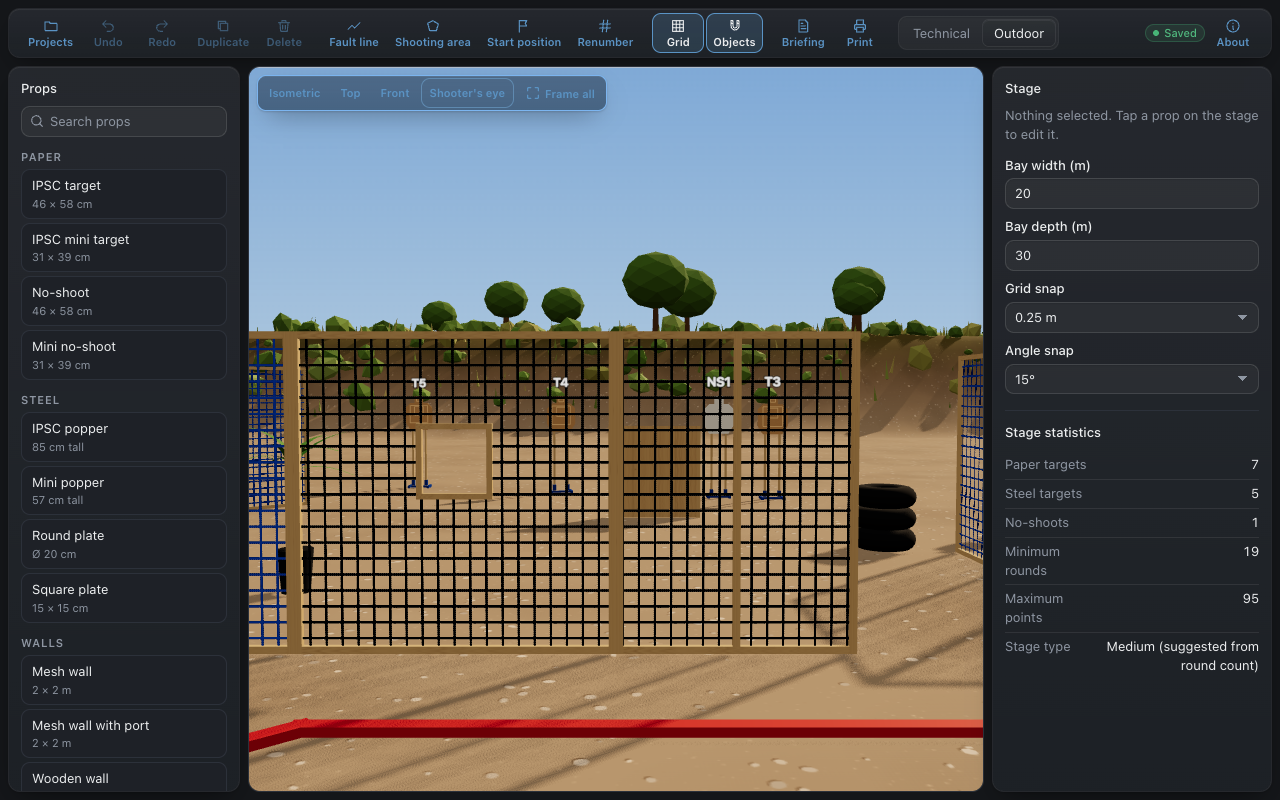
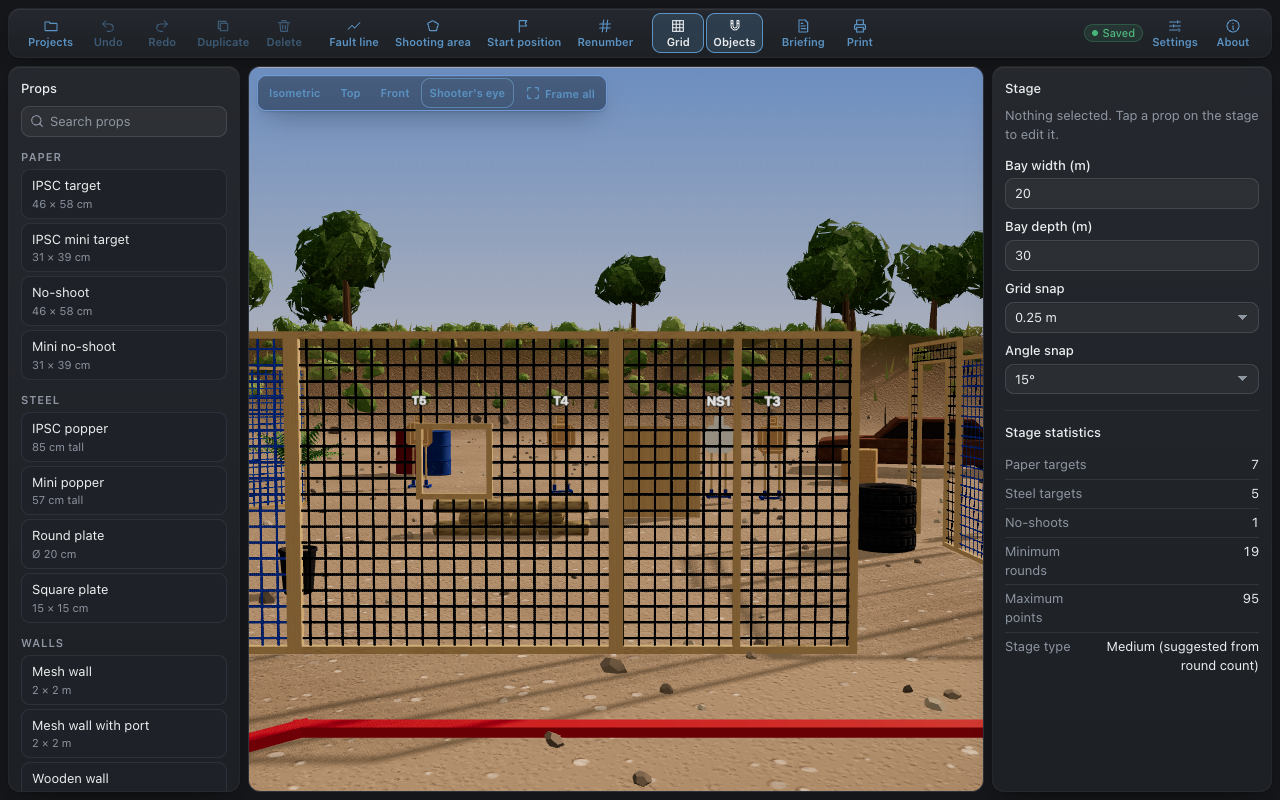
docs: environment settings, new props and detail

diff --git a/README.md b/README.md
@@ -20,7 +20,10 @@ training, and want a clear briefing sheet without drawing the map by hand.
   - steel: IPSC popper, mini popper, round plate, square plate
   - walls: mesh wall and mesh wall with port (black or blue 10 cm wire mesh, pine or black frame),
     wooden wall, wooden wall with port; ports are real openings
-  - obstacles: barrel, tyre, tyre stack, wooden crate, potted plant (decoration)
+  - mesh doorway (a wall with a door opening; it snaps like the other walls)
+  - structures: ramp, platform
+  - obstacles and range furniture: worn steel barrel (black, blue, red, green), tyre, tyre stack,
+    board crate, potted plant, car, table, chair, pallets, sandbag wall, traffic cone
   - fault lines, shooting areas and the start position
 - **Editing by eye:** tap or drag props in, drag them on the ground, rotate them, all with grid and
   angle snapping; multi-select, duplicate, delete, undo and redo.
@@ -33,8 +36,10 @@ training, and want a clear briefing sheet without drawing the map by hand.
   points are counted from the stage.
 - **Printable brief** (A4): briefing and a top-down map with a scale bar on page 1, a 3D view on
   page 2. Save it as a PDF from the print dialog.
-- **Two surroundings,** Outdoor (a dirt range at golden hour with earth banks, bushes and trees,
-  long soft shadows) and Technical (grey floor, grid). Switching never moves anything on the stage.
+- **Two surroundings,** Outdoor (a dirt range with earth banks, bushes and trees, gravel and stones)
+  and Technical (grey floor, grid). Switching never moves anything on the stage.
+- **Environment settings:** time of day (the sun moves and warms toward evening), sunlight,
+  ambient light, shadows and their softness, haze and exposure, saved with the stage.
 - **Cameras:** orbit, pan, zoom, Top, Isometric, Front and a shooter's-eye view from the start position.
 - **Projects** saved in the browser automatically, with JSON export and import.
 - **Works offline** and can be installed as an app (PWA).
@@ -50,6 +55,13 @@ not supported: below 768 px wide the app asks you to use a larger screen. Englis
 ## What's new
 
 ### Unreleased
+
+- Environment settings (toolbar *Settings*): surroundings, time of day, sunlight, ambient light,
+  shadows, shadow softness, haze and exposure.
+- New props: ramp, platform, car, table, chair, pallets, sandbag wall, traffic cone and a mesh
+  doorway; barrels come in four colours.
+- More detail: worn steel drums, treaded tyres, board crates, detailed palms and trees, a gravel
+  ground with stones; IPSC targets in the rulebook proportions, standing lower on shorter sticks.
 
 - Walls snap end to end to nearby walls; Grid and Objects snapping toggles in the toolbar.
 - Hold Shift while dragging for slow, fine moves.
@@ -88,6 +100,10 @@ not supported: below 768 px wide the app asks you to use a larger screen. Englis
   </tr>
   <tr>
     <td><img src="docs/screenshots/projects.png" alt="The Projects dialog" width="400"><br>Projects saved in this browser, with export hints</td>
+    <td><img src="docs/screenshots/settings.png" alt="The environment settings dialog" width="400"><br>Environment settings: surroundings, time of day, light, shadows, haze</td>
+  </tr>
+  <tr>
+    <td><img src="docs/screenshots/evening.png" alt="The stage at 19:30" width="400"><br>The same stage at 19:30: a low, warm sun and long shadows</td>
     <td></td>
   </tr>
 </table>
@@ -118,13 +134,19 @@ Stage settings are in the inspector when nothing is selected. They are saved wit
 | Grid snap | Positions snap to this grid: off, 0.1, 0.25, 0.5 or 1 m (toolbar *Grid* turns it on/off) | 0.25 m |
 | Object snap | Toolbar *Objects*: a wall's end jumps onto another wall's end within 35 cm | On |
 | Angle snap | Rotations snap to this step: off, 5°, 15°, 45° or 90° | 15° |
-| Surroundings | Outdoor (dirt range, sun) or Technical (grey floor, grid); never moves the stage | Outdoor |
+| Surroundings | *Settings*: Outdoor (dirt range) or Technical (grey floor, grid); never moves the stage | Outdoor |
+| Time of day | *Settings*: 06:00–20:00; the sun's height, direction and colour follow it | 17:30 |
+| Sunlight, Ambient light | *Settings*: 0–200 % | 100 % |
+| Shadows, Shadow softness | *Settings*: on/off, 0 (sharp) – 8 | On, 3 |
+| Haze | *Settings*: 0 (clear) – 100 % | 35 % |
+| Exposure | *Settings*: 0.5–1.6 | 1.05 |
 
 Prop settings (inspector, one prop selected): label (targets), rotation, and per prop: mount height
-for paper targets (0.1–2 m, default 1 m to the target's bottom), base height for steel, plate size
+for paper targets (0.1–2 m, default 0.7 m to the target's bottom), base height for steel, plate size
 (15–30 cm), wall length (0.5–4 m) and height (0.5–2.5 m), mesh colour (black/blue), frame
-(wood/black), port width, height and bottom edge, paint for poppers and plates (white/yellow),
-tyres in a stack (1–6), crate size.
+(wood/black), port width, height and bottom edge, door width and height, paint for poppers and
+plates (white/yellow), barrel and car colour, ramp and platform length, width and height, table
+length, pallets in a stack (1–6), sandbag wall length and rows, tyres in a stack (1–6), crate size.
 
 Scoring follows the IPSC Combined Competition Rules, January 2024 edition (Handgun): 2 hits per
 paper target and 1 per steel target (Comstock), 5 points per A-zone or steel hit, and Short ≤ 12,
@@ -153,7 +175,12 @@ it in the inspector; Renumber keeps hand-set labels and warns about duplicates.
 
 **Look at the stage.** Drag the empty ground to orbit, right-drag (two fingers on an iPad) to pan,
 scroll or pinch to zoom. The buttons over the view jump to Isometric, Top, Front, Shooter's eye or
-frame everything. Switch *Technical*/*Outdoor* at any time; nothing on the stage moves.
+frame everything.
+
+**Change the light and surroundings.** *Settings* switches between Outdoor and Technical and sets
+the time of day, sunlight, ambient light, shadows, haze and exposure. Changes show as you drag the
+sliders; *Reset to defaults* goes back to a late-afternoon sun. Nothing on the stage moves, and
+the printed 3D view uses the same light.
 
 **Undo anything** with Undo/Redo or ⌘Z / ⇧⌘Z (Ctrl on Windows).
 

diff --git a/CLAUDE.md b/CLAUDE.md
@@ -31,7 +31,7 @@ npm run lint        # ESLint, including the unsafe-DOM rule
 - `css/app.css`: the app's own styles on Låda Glass tokens
 - `js/main.js`: boot and wiring; `js/editor.js`: user actions → undoable stage edits (no DOM)
 - `js/model/`: pure stage data (props, scoring-rules, stage, history, snap, objsnap, numbering,
-  stats, schema, briefing, map)
+  stats, schema, briefing, map, look)
 - `js/render/`: Three.js (engine, stage-view, builders/, environments/, camera, labels, picking, ground)
 - `js/ui/`: Låda Glass panels (toolbar, library, inspector, stats, shortcuts, about, dom helpers)
 - `js/demo.js`: the example stage shown on open (until saved projects exist)
@@ -54,6 +54,9 @@ npm run lint        # ESLint, including the unsafe-DOM rule
   3D view is rebuilt from it. Every edit goes through `model/history.js` so it can be undone.
 - **Snapping order** (`editor.js` `landing`): Shift (fine) → no snap; else object snap (wall end to
   wall end, `model/objsnap.js`) → else grid; always clamped to the bay. Groups snap to the grid only.
+- **Look settings** (`settings.look`, `model/look.js`) are view choices like the surroundings:
+  saved with the stage, applied with `engine.setLook` / `environments/common.js applyLook`, never
+  undo steps, and undo/redo keep the current ones.
 - **Looks are generated in code** (canvas textures in `render/materials.js` and
   `environments/*.js`, seeded random), never downloaded. The Outdoor scene follows the reference
   photo (golden-hour dirt range); keep that feel when changing it.

diff --git a/CHANGELOG.md b/CHANGELOG.md
@@ -4,6 +4,17 @@ All notable changes to Dynamic-Stagebuilder are listed here, newest first.
 
 ## Unreleased
 
+- Environment settings dialog (toolbar *Settings*): surroundings (moved from the toolbar), time
+  of day 06:00–20:00 driving the sun's position and colour, sunlight, ambient light, shadows,
+  shadow softness, haze and exposure; `settings.look` in stage files (older files get defaults).
+- New props: ramp, platform (structures); car, table, chair, pallets, sandbag wall, traffic cone;
+  mesh doorway (a wall, it snaps). Barrels get a colour (black, blue, red, green).
+- More detail and texture: worn steel drums with hoops, chimes, bungs, scratches and rust;
+  treaded tyres; board crates with battens; palms with leaflets; trees with bark, branches and
+  leafy crowns; a bump-mapped gravel ground with scattered stones.
+- IPSC target outline after the rulebook drawing (43 cm body, 15 × 15 cm head); targets stand
+  lower (default 0.7 m to the card's bottom) on sticks reaching half way up; poppers get a hinge.
+
 - Object snapping: walls (mesh, mesh with port, wooden) snap end to end to nearby walls (35 cm),
   grid snap otherwise; *Grid* and *Objects* toggles in the toolbar; `settings.objectSnap` in stage
   files (older files read as on).
